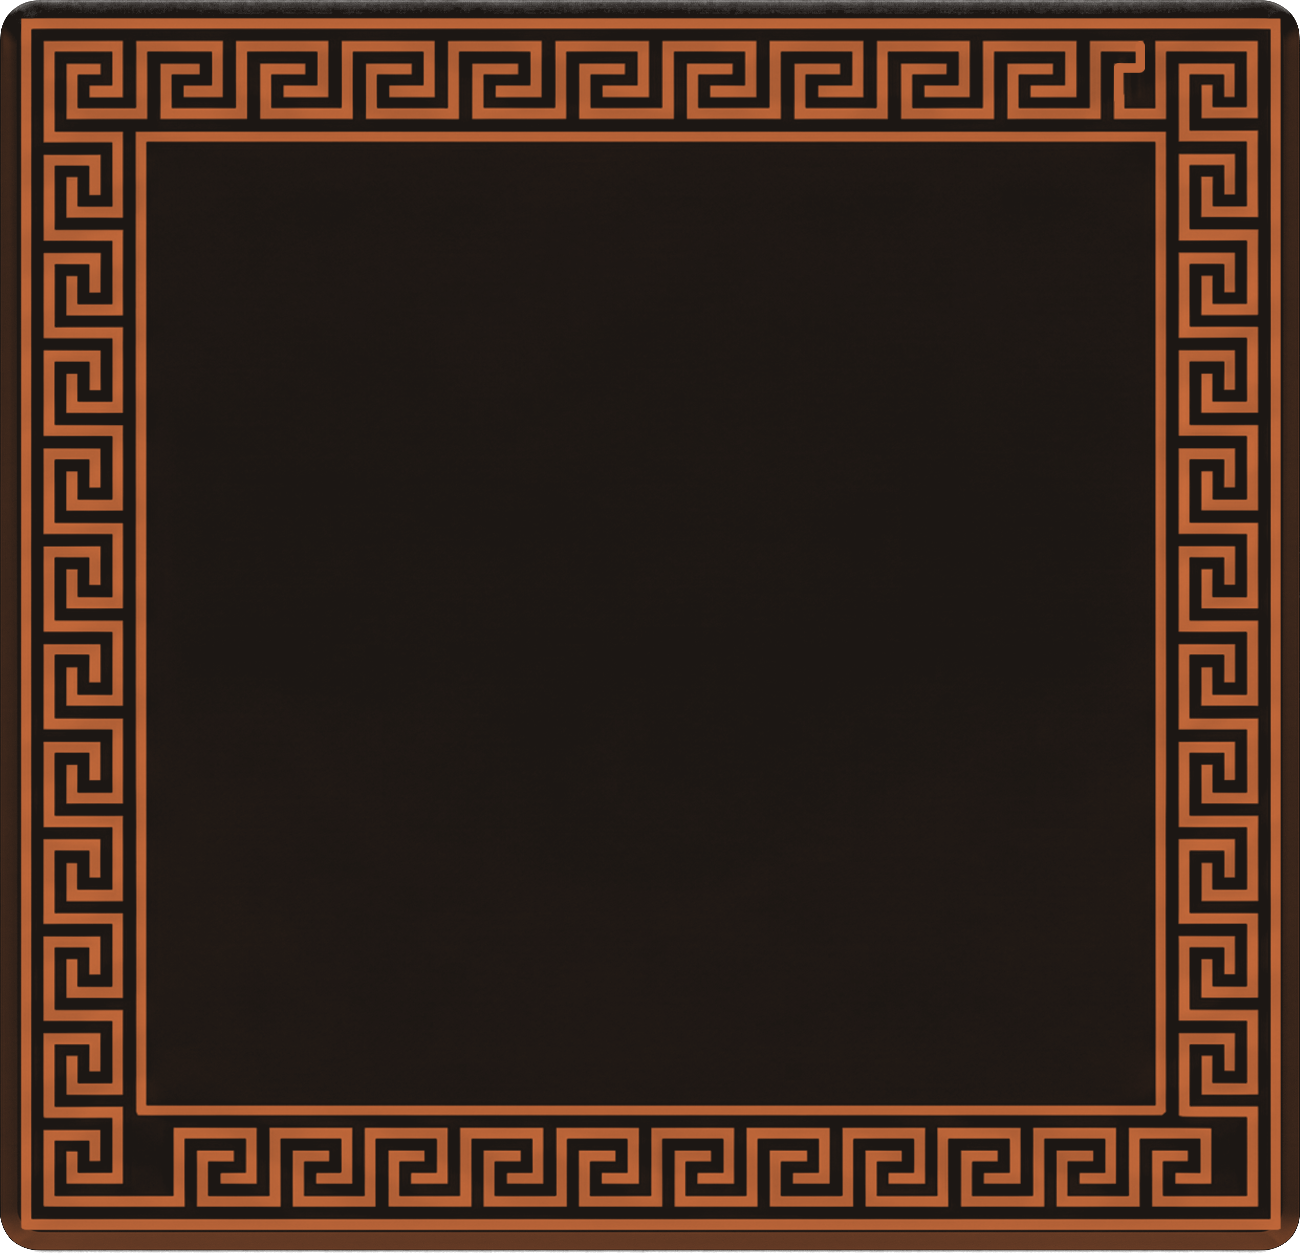
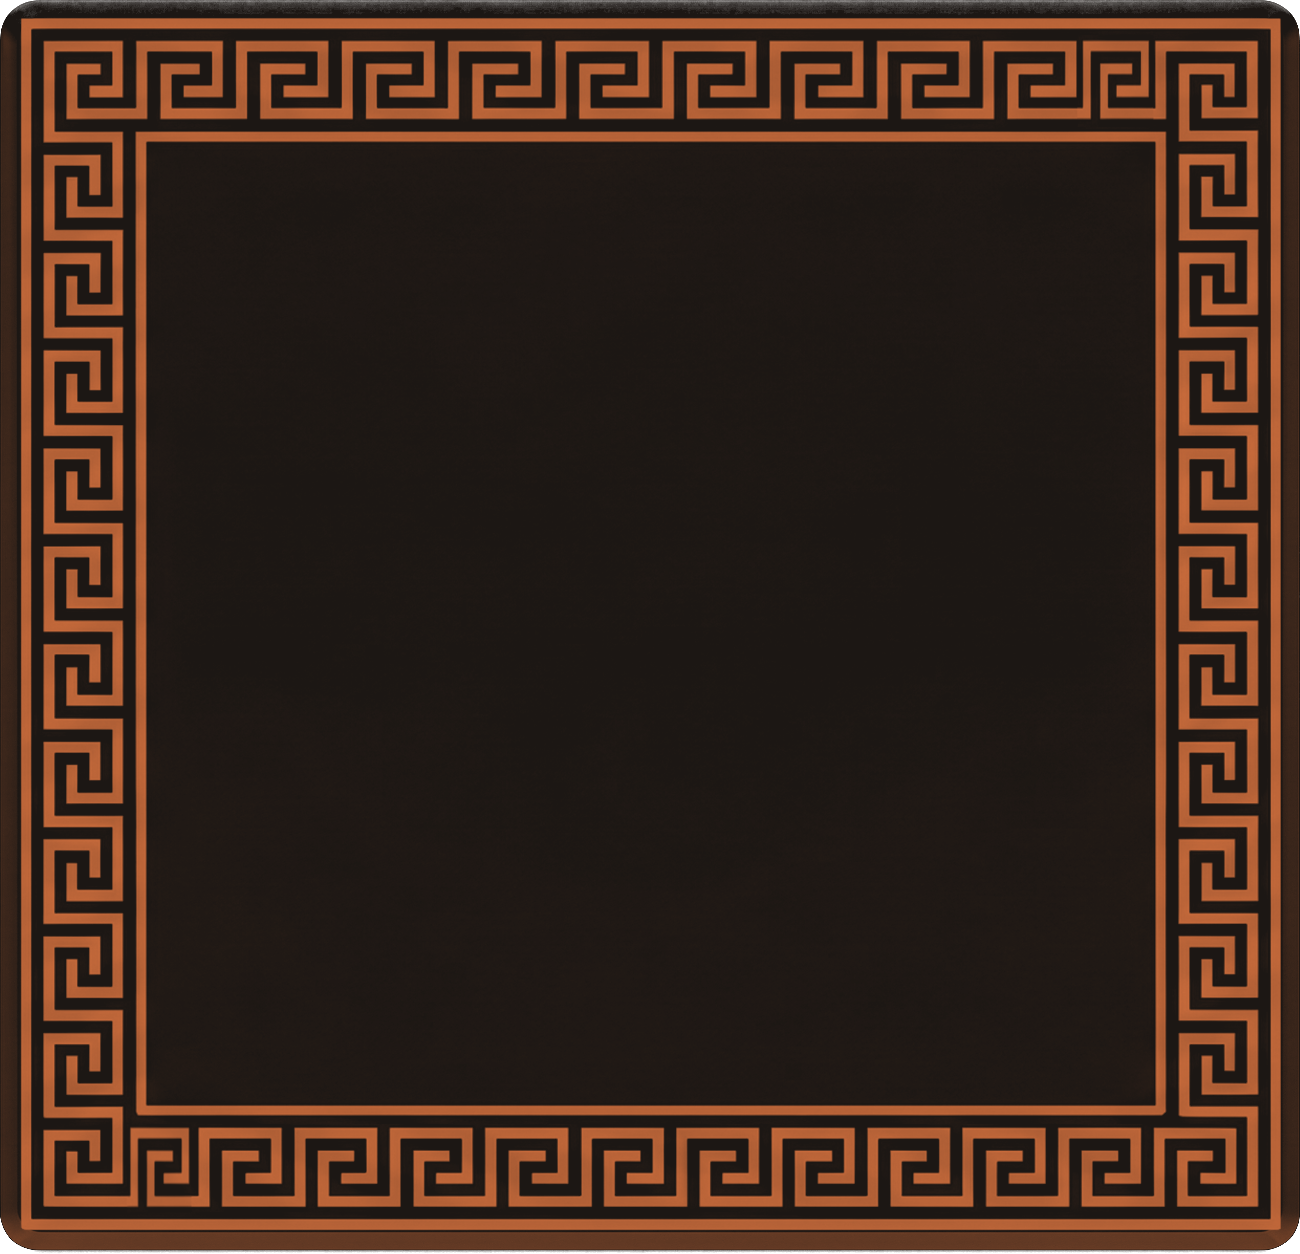
Regenerate black-figure button from corrected Button3 art

Changed region(s): [[0.0923, 0.9019, 0.9538, 0.9641], [0.8308, 0.0311, 0.8923, 0.0933]]

diff --git a/Docs/StyleGuide.md b/Docs/StyleGuide.md
@@ -63,7 +63,7 @@ Targeting arrows use the Target colour and must read clearly against the board.
 
 ## UI components
 
-- **Button (locked):** black-figure style. Sprite `Assets/Resources/Images/UI/Button_BlackFigure.png` (dark fill, terracotta Greek key; a recolour of the original `Button2` art), Image type **Tiled**.
+- **Button (locked):** black-figure style. Sprite `Assets/Resources/Images/UI/Button_BlackFigure.png` (dark fill, terracotta Greek key; a recolour of `Button3`, the corrected `Button2` art: fill `#1C1714`, lines `#D9733F`, 9-slice border 230/227/212/200), Image type **Tiled**.
   - Border scale: `Pixels Per Unit Multiplier ≈ 700 / button height` (7 on a 100-tall button, clamped 5–13), so every button shows the same key thickness.
   - Label: Cinzel, colour `#E3864F`, TMP margins inset inside the key border (≈ `230/ppum × 0.85` horizontal, `210/ppum × 0.55` vertical).
   - States (Button Color Tint, multiplier 1.25): normal `0.8` grey → reads as 1.0; highlighted white → brightens; pressed `0.6`; disabled `0.5` at 60% alpha. Don't tint buttons with hue colours in code; dim/brighten only (e.g. status tabs: inactive `0.55` grey, active white).
